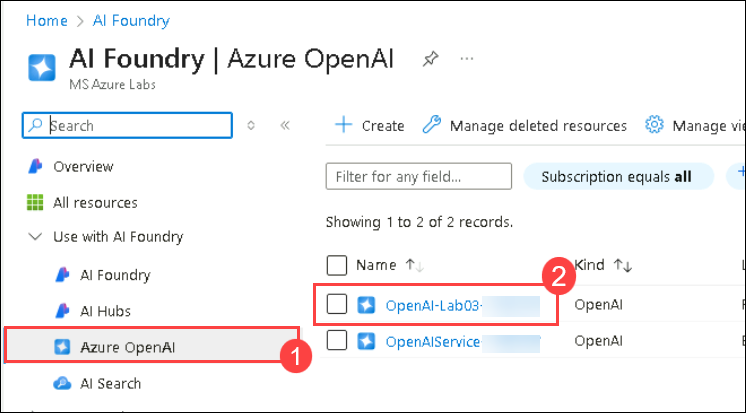
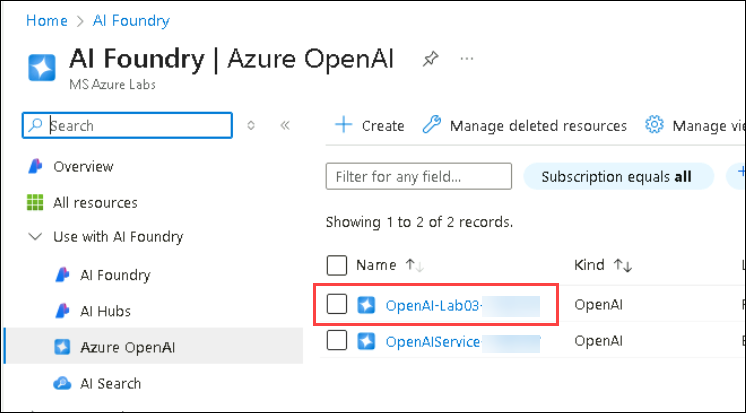
Update

Changed region(s): [[0.0, 0.7845, 0.4316, 0.9007], [0.7091, 0.6102, 0.7708, 0.7264]]

diff --git a/Instructions/Labs/prompt-eng-2.md b/Instructions/Labs/prompt-eng-2.md
@@ -78,7 +78,7 @@ In this task, you'll deploy a specific AI model instance within your Azure OpenA
 
    ![](../media/17-12-24(1).png)
 
-2. On **AI Foundry | Azure OpenAI** blade, select **OpenAI-Lab03-<inject key="Deployment-ID" enableCopy="false"></inject>** **(2)**
+2. On **AI Foundry | Azure OpenAI** blade, select **OpenAI-Lab03-<inject key="Deployment-ID" enableCopy="false"></inject>**
 
    ![](../media/lab-03upd2.png)
 
